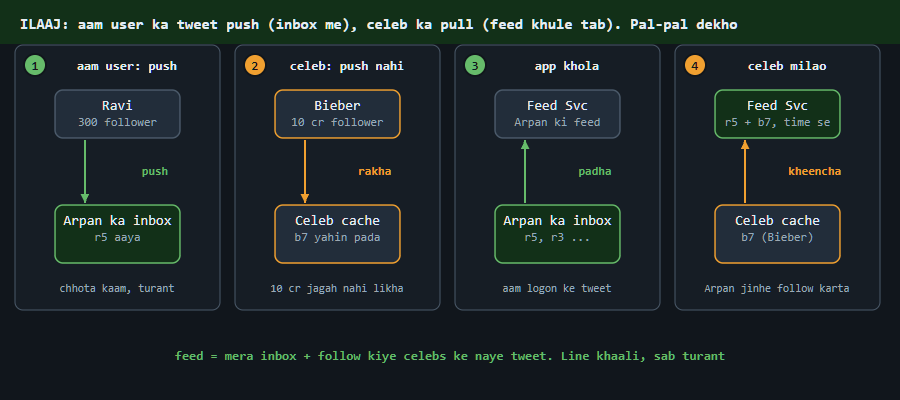
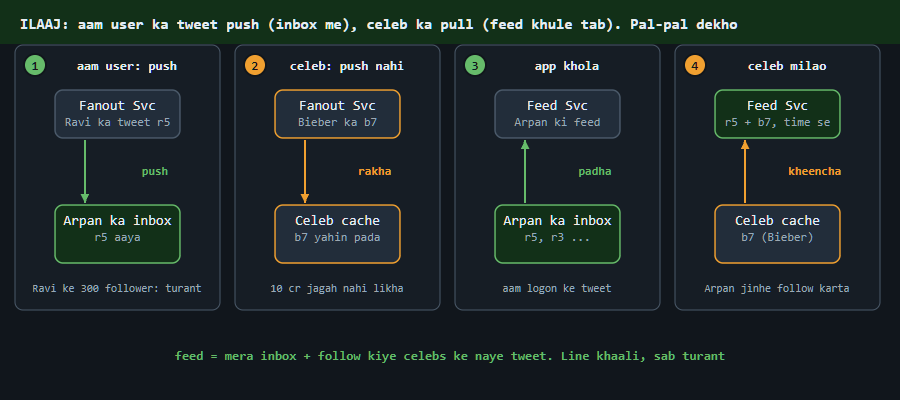
hld twitter c3: push / rakha Fanout Svc karta, user seedha store pe nahi

Changed region(s): [[0.0311, 0.69, 0.2178, 0.75], [0.0622, 0.24, 0.1867, 0.33], [0.3111, 0.24, 0.4356, 0.33]]

diff --git a/04_HLD/SYSTEM_DESIGNS/03_twitter_feed/img/c3_anim.html b/04_HLD/SYSTEM_DESIGNS/03_twitter_feed/img/c3_anim.html
@@ -165,8 +165,8 @@ function frame(ph) {
     num(560, 245, 3, C.bad); L(580, 250, 'Arpan ka tweet ghanton der se pahuncha', C.bad, 'start');
     L(450, 340, 'ek celeb ka tweet poori line rok deta. Mohan ko Arpan ka tweet dikha hi nahi', C.bad);
   } else if (ph === 1) {
-    panel(0, 'aam user: push', ['Ravi', '300 follower', ''], ['Arpan ka inbox', 'r5 aaya', 'good'], 'push', true, C.good, 'chhota kaam, turant');
-    panel(1, 'celeb: push nahi', ['Bieber', '10 cr follower', 'acc'], ['Celeb cache', 'b7 yahin pada', 'acc'], 'rakha', true, C.acc, '10 cr jagah nahi likha');
+    panel(0, 'aam user: push', ['Fanout Svc', 'Ravi ka tweet r5', ''], ['Arpan ka inbox', 'r5 aaya', 'good'], 'push', true, C.good, 'Ravi ke 300 follower: turant');
+    panel(1, 'celeb: push nahi', ['Fanout Svc', 'Bieber ka b7', 'acc'], ['Celeb cache', 'b7 yahin pada', 'acc'], 'rakha', true, C.acc, '10 cr jagah nahi likha');
     panel(2, 'app khola', ['Feed Svc', 'Arpan ki feed', ''], ['Arpan ka inbox', 'r5, r3 ...', 'good'], 'padha', false, C.good, 'aam logon ke tweet');
     panel(3, 'celeb milao', ['Feed Svc', 'r5 + b7, time se', 'good'], ['Celeb cache', 'b7 (Bieber)', 'acc'], 'kheencha', false, C.acc, 'Arpan jinhe follow karta');
     L(450, 320, 'feed = mera inbox + follow kiye celebs ke naye tweet. Line khaali, sab turant', C.good);

diff --git a/04_HLD/SYSTEM_DESIGNS/03_twitter_feed/img/c3_anim.js b/04_HLD/SYSTEM_DESIGNS/03_twitter_feed/img/c3_anim.js
@@ -30,8 +30,8 @@ function frame(ph) {
     num(560, 245, 3, C.bad); L(580, 250, 'Arpan ka tweet ghanton der se pahuncha', C.bad, 'start');
     L(450, 340, 'ek celeb ka tweet poori line rok deta. Mohan ko Arpan ka tweet dikha hi nahi', C.bad);
   } else if (ph === 1) {
-    panel(0, 'aam user: push', ['Ravi', '300 follower', ''], ['Arpan ka inbox', 'r5 aaya', 'good'], 'push', true, C.good, 'chhota kaam, turant');
-    panel(1, 'celeb: push nahi', ['Bieber', '10 cr follower', 'acc'], ['Celeb cache', 'b7 yahin pada', 'acc'], 'rakha', true, C.acc, '10 cr jagah nahi likha');
+    panel(0, 'aam user: push', ['Fanout Svc', 'Ravi ka tweet r5', ''], ['Arpan ka inbox', 'r5 aaya', 'good'], 'push', true, C.good, 'Ravi ke 300 follower: turant');
+    panel(1, 'celeb: push nahi', ['Fanout Svc', 'Bieber ka b7', 'acc'], ['Celeb cache', 'b7 yahin pada', 'acc'], 'rakha', true, C.acc, '10 cr jagah nahi likha');
     panel(2, 'app khola', ['Feed Svc', 'Arpan ki feed', ''], ['Arpan ka inbox', 'r5, r3 ...', 'good'], 'padha', false, C.good, 'aam logon ke tweet');
     panel(3, 'celeb milao', ['Feed Svc', 'r5 + b7, time se', 'good'], ['Celeb cache', 'b7 (Bieber)', 'acc'], 'kheencha', false, C.acc, 'Arpan jinhe follow karta');
     L(450, 320, 'feed = mera inbox + follow kiye celebs ke naye tweet. Line khaali, sab turant', C.good);

diff --git a/04_HLD/SYSTEM_DESIGNS/03_twitter_feed/03_twitter_feed.md b/04_HLD/SYSTEM_DESIGNS/03_twitter_feed/03_twitter_feed.md
@@ -114,11 +114,11 @@ Cue: HYBRID: aam push, celeb pull
 
 <details><summary>kahani dekho (3 scene)</summary>
 
-<img src="img/c3_1.png?v=2" width="900">
+<img src="img/c3_1.png?v=3" width="900">
 
-<img src="img/c3_2.png?v=2" width="900">
+<img src="img/c3_2.png?v=3" width="900">
 
-<img src="img/c3_3.png?v=2" width="900">
+<img src="img/c3_3.png?v=3" width="900">
 
 </details>
 
